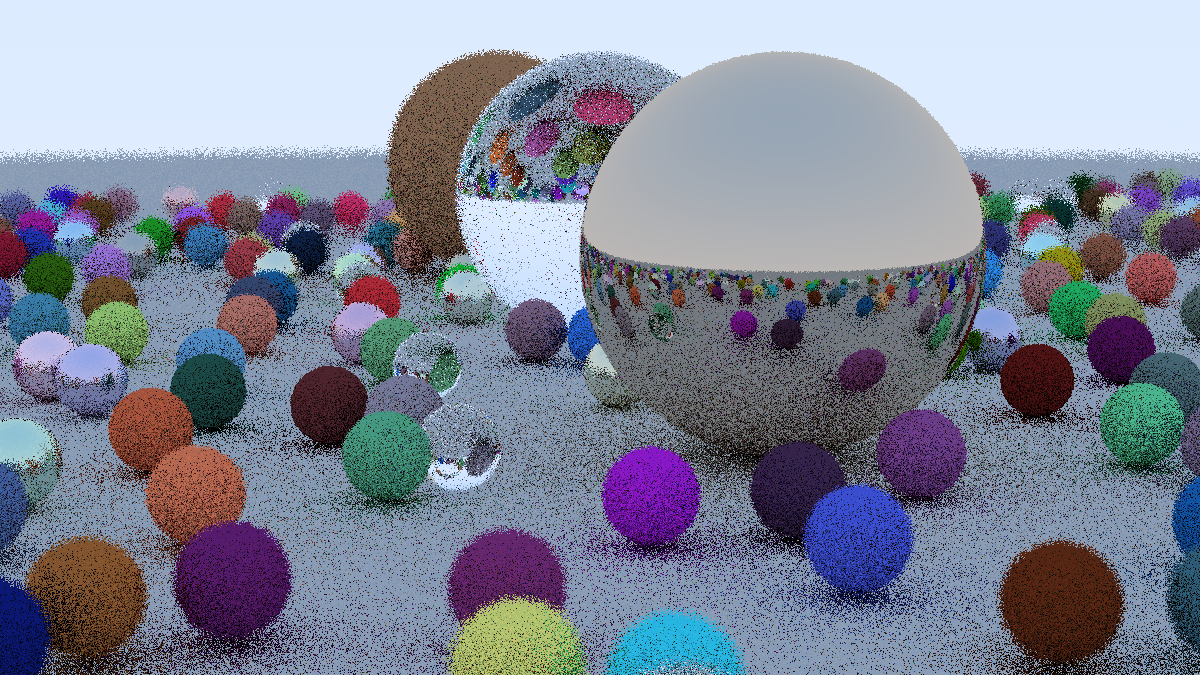
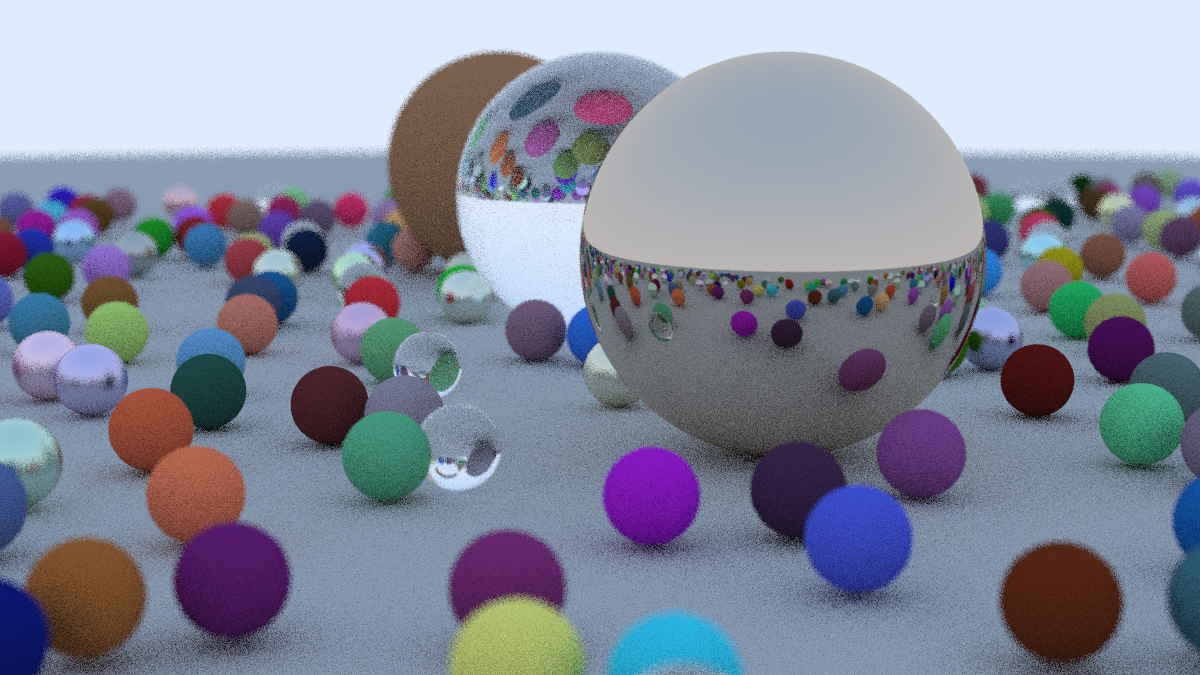
sample 10

diff --git a/RayTracing In One Weekend/main.cc b/RayTracing In One Weekend/main.cc
@@ -101,7 +101,7 @@ int main() {
     const auto aspect_ratio = 16.0 / 9.0;
     const int image_width = 1200;
     const int image_height = static_cast<int>(image_width / aspect_ratio);
-    const int samples_per_pixel = 1;
+    const int samples_per_pixel = 10;
     const int max_depth = 50;
 
     // World
